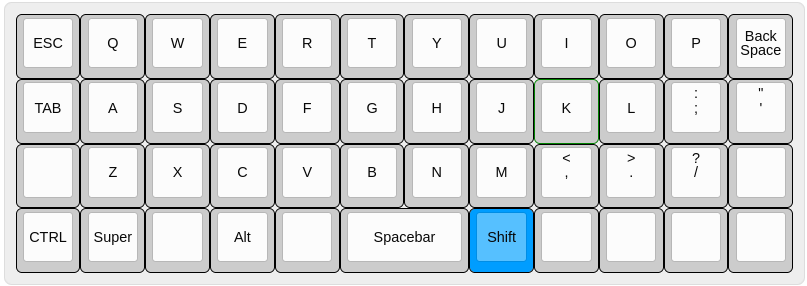
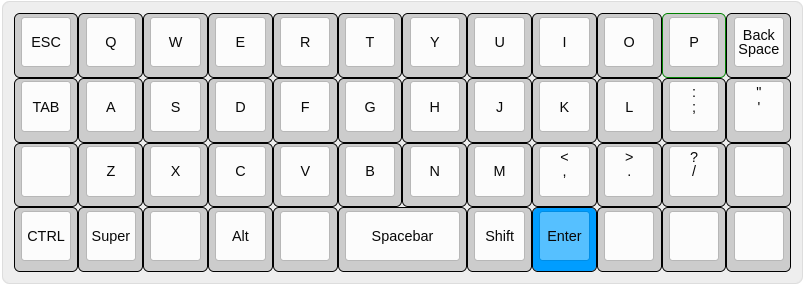
new images

Changed region(s): [[0.0, 0.0, 0.9938, 0.9544], [0.8075, 0.9263, 0.8385, 0.9544]]

diff --git a/README.md b/README.md
@@ -1,6 +1,3 @@
-# TODO
-Change images to represent shiftable characters and the red color
-
 # An efficient 40% keyboard layout
 I have been fiddling with my 40% layout ever since i got my keyboard, and I believe that I've come up with some good ideas about the 40% layout that I haven't seen anywhere else online. You can upload the keyboard [JSON file](https://github.com/EdvardSire/keyboard/blob/master/niu_mini_layout_planck_mit_mine.json) at [QMK configurator](https://config.qmk.fm/#/) to view the layout layer by layer.
 
@@ -36,8 +33,7 @@ One of my problems with the >68 key keyboard is that I never really used my righ
 ![Capitalization keyboard](/images/keyboard-layout-capitalization.png)
 
 ## Enter's position on the 4x12
-My first instinct was to rebind apostrophe (') and have the Enter under Backspace, but that wasn't comfortable for typing. Then i realized that one of the inefficiencies that i didn't like about 108 key keyboard was that I never really used my right thumb, since i Space with my left. That's how
-
+I first wanted to move apostrophe (') somewhere else and have Enter under Backspace, but that didn't type well. After mapping Shift one right of Spacebar my right thumb still only had one key to press, so I mapped Enter to the right of Shift. This never becomes a problem since Enter and Shift never needs to be pressed at the same time.
 
 
 
